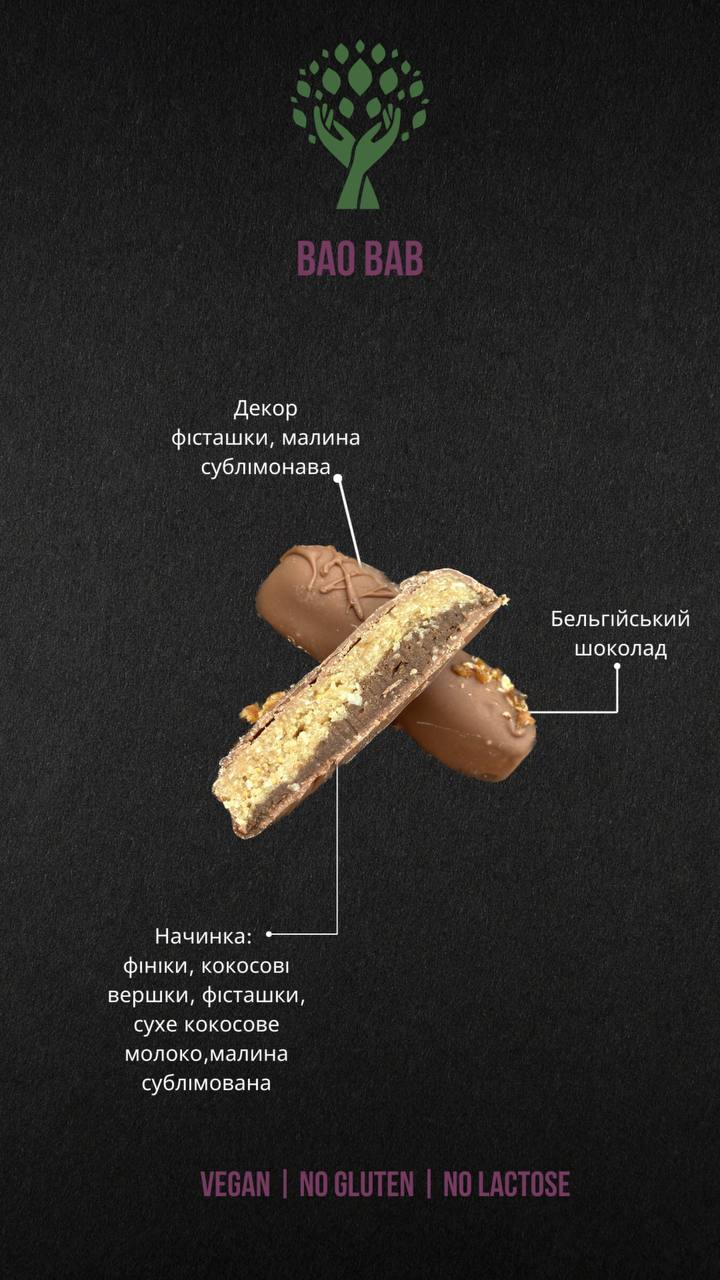
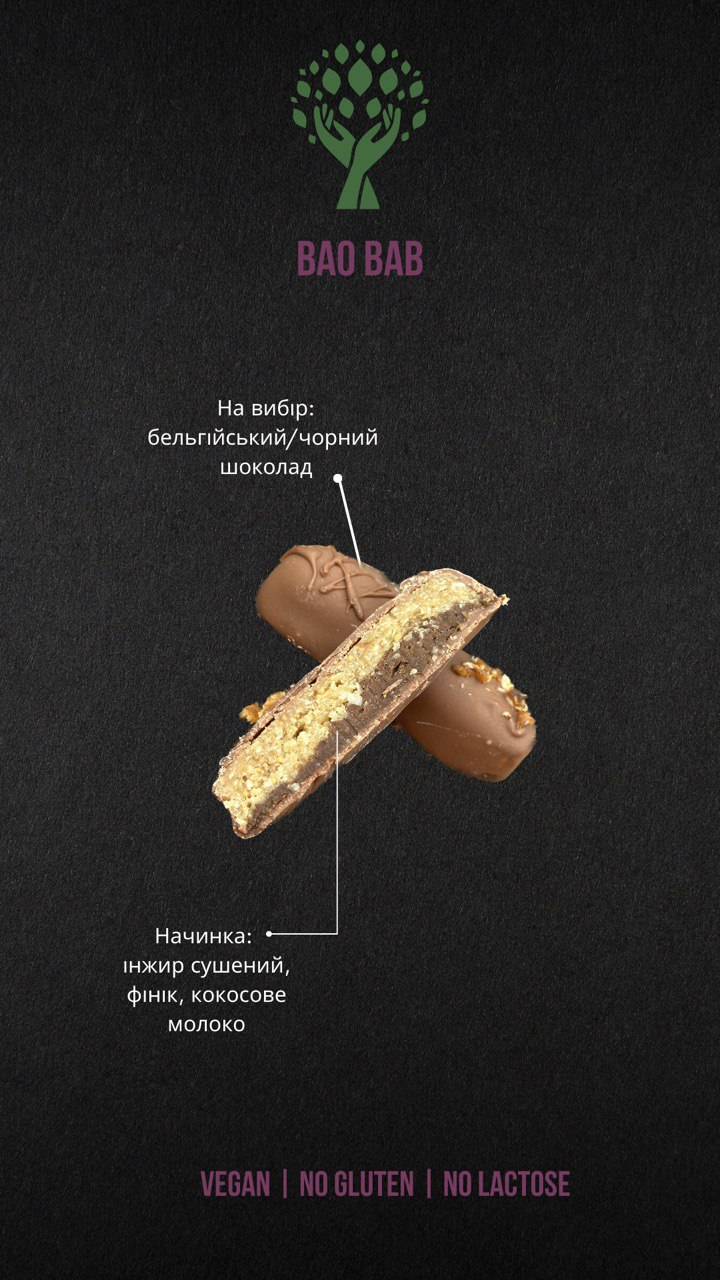
changes photo

diff --git a/index.html b/index.html
@@ -28,7 +28,7 @@
 
     <nav class="navbar">
       <a href="#home" class="active">Головна</a>
-      <a href="#about">Про нас</a>
+      <a href="#about">Продукція</a>
       <a href="#education">Меню</a>
       <a href="#contact">Контакти</a>
     </nav>
@@ -112,36 +112,6 @@
               <div class="about-text">
                 <h3>Фісташково-Малинові Батончики</h3>
                 <div class="line"></div>
-                <p>Далі, фісташки обсмажуються для підвищення їх аромату та смаку, і нарізаються на маленькі шматочки,
-                  щоб додати
-                  хрусткості. Малина, яку ми використовуємо, є сушеною та нарізаною на дрібні кусочки, що додає
-                  кисленького присмаку та
-                  текстури до батончиків.</p>
-              </div>
-            </div>
-          </div>
-          <div class="swiper-slide">
-            <div class="about-content">
-              <div class="about-img">
-                <img src="./img/photo_9.jpg" alt="">
-              </div>
-              <div class="about-text">
-                <h3>Фісташково-Малинові Батончики</h3>
-                <div class="line"></div>
-                <p>Коли батончики готові, вони виглядають яскраво та апетитно. Їхній смак поєднує в собі ніжний шоколад,
-                  хрустку фісташку
-                  та кисленьку малину, що робить їх ідеальними для задоволення солодкого пристрасті.</p>
-              </div>
-            </div>
-          </div>
-          <div class="swiper-slide">
-            <div class="about-content">
-              <div class="about-img">
-                <img src="./img/photo_2.jpg" alt="">
-              </div>
-              <div class="about-text">
-                <h3>Фісташково-Малинові Батончики</h3>
-                <div class="line"></div>
                 <p>Шоколадні батончики "Фісташка-Малина" в бельгійському шоколаді мають багатий та насичений смак, що
                   робить їх ідеальними
                   для задоволення солодкого пристрасті. Текстура шоколаду є гладкою та кремовою, фісташки надають
@@ -153,16 +123,32 @@
           <div class="swiper-slide">
             <div class="about-content">
               <div class="about-img">
-                <img src="./img/photo_2.jpg" alt="">
+                <img src="./img/photo_5.jpg" alt="">
               </div>
               <div class="about-text">
-                <h3>Фісташково-Малинові Батончики</h3>
+                <h3>Батончики з Інжиром</h3>
                 <div class="line"></div>
-                <p>Я обожнюю будь-який шоколад, а ці батончики з підсмаженою фісташкою та бельгійським шоколадом з
-                  малиною —
-                  це
-                  неймовірне
-                  шоколадне задоволення. Вони багаті, декадентські та неймовірно смачні як десерт після обіду. </p>
+                <p>Крафтові батончики з інжиром - це справжнє задоволення для тих, хто любить насолоджуватися
+                  витонченими смаками та
+                  старанно виготовленими продуктами. Виробляються з натуральних інгредієнтів, що надає їм унікальний
+                  смак і аромат,кожен
+                  батончик виготовлений з максимальною увагою до деталей та створений з любов'ю.</p>
+              </div>
+            </div>
+          </div>
+          <div class="swiper-slide">
+            <div class="about-content">
+              <div class="about-img">
+                <img src="./img/photo_2.2.jpg" alt="">
+              </div>
+              <div class="about-text">
+                <h3>Батончики з Інжиром</h3>
+                <div class="line"></div>
+                <p>Крафтові батончики з інжиром - це не просто закуска, а витончений десерт, який можна насолоджуватися
+                  в будь-який час
+                  дня. Вони можуть бути чудовим доповненням до чаю або кави, ідеальним перекусом під час подорожі, або
+                  подарунком для тих,
+                  хто любить насолоджуватися новими смаками.</p>
               </div>
             </div>
           </div>

diff --git a/style.css b/style.css
@@ -139,7 +139,7 @@ body {
 .navbar a::before {
   content: '';
   position: absolute;
-  bottom: -3px;
+  bottom: -6px;
   left: 0;
   right: 0;
   height: 0;
@@ -400,7 +400,7 @@ section {
   box-shadow: 0px 0px 23px -9px rgb(0, 0, 0);
 }
 .about-content .about-text {
-  max-width: 40%;
+  max-width: 50%;
   margin: auto 5rem;
   text-align: center;
   height: 100%;

diff --git a/js/swiper.js b/js/swiper.js
@@ -1,6 +1,6 @@
 const swiper = new Swiper('.swiper', {
   // Optional parameters
-  loop: true,
+  // loop: true,
 
   // Navigation arrows
   navigation: {
